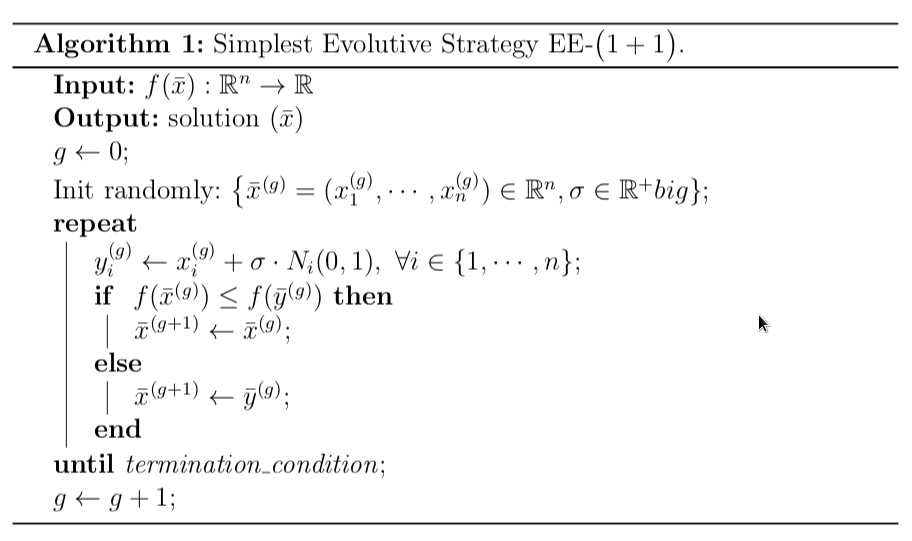
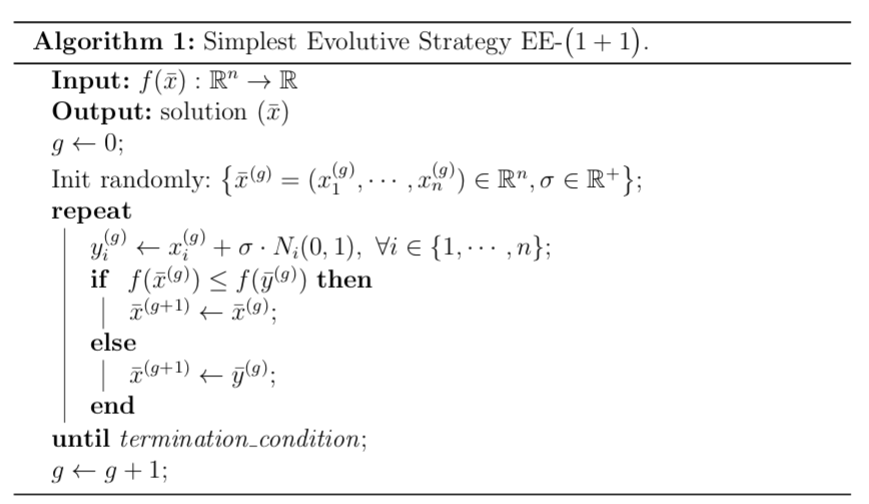
EE-(1+1): changed picture for the corrected one and README updated

diff --git a/README.md b/README.md
@@ -9,7 +9,7 @@ Here I save scripts, images, gifs and other things from my posts in Medium, Towa
 | Post | Abstract | Folder | Tags | Date |
 | --- | --- | --- | --- | --- |
 | How do I [...] a Machine Learning Engineer | [link](#Rich1) | [Rich_ML_Workflow](https://github.com/MGijon/Posts/tree/main/Rich_ML_Workflow) | <img src="https://img.shields.io/badge/-Python-blue"> <img src="https://img.shields.io/badge/-Rich-red"> | 10-24-2020 |
-| | | | | |
+| The [...]: the EE-(1+1) algorithm| [link](#EE11) | [Evolutive_Strategies/EE-(1+1)/](https://github.com/MGijon/Posts/tree/main/Evolutive_Strategies/EE-(1%2B1)) | <img src="https://img.shields.io/badge/-Python-blue"> <img src="https://img.shields.io/badge/-Evolution%20Strategy-green"> | 03-09-2021 |
 
 ***
 
@@ -27,7 +27,10 @@ Here I save scripts, images, gifs and other things from my posts in Medium, Towa
 </p>
 
 
+### The starting point of Evolution Strategies: the EE-(1+1) algorithm
+#### [LINK](https://mgijon94.medium.com/the-starting-point-of-evolution-strategies-the-ee-1-1-algorithm-511ea3f2edf7)
 
+**Abstract**:  cooming soon
 
 
 
